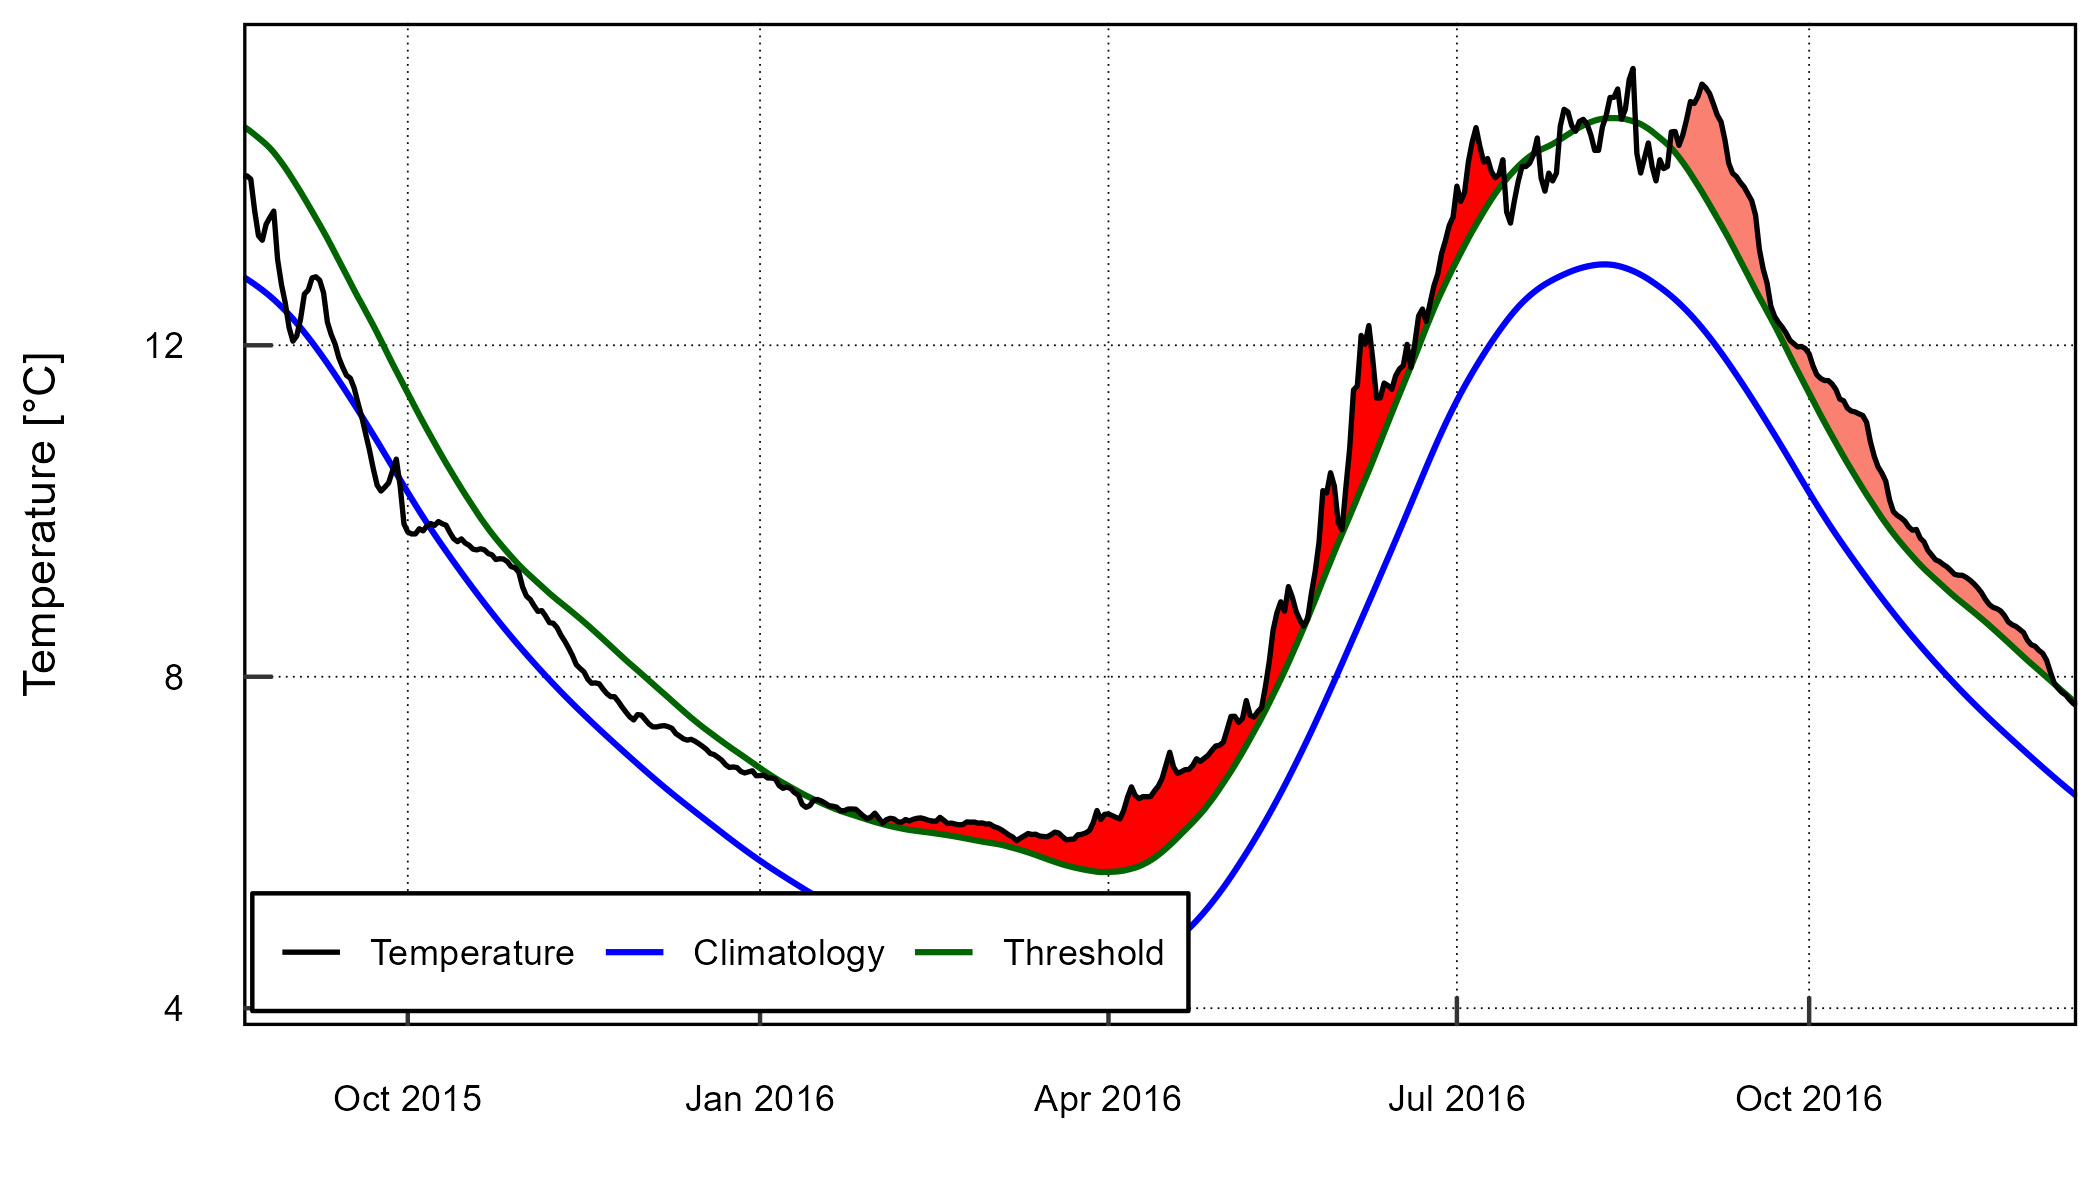
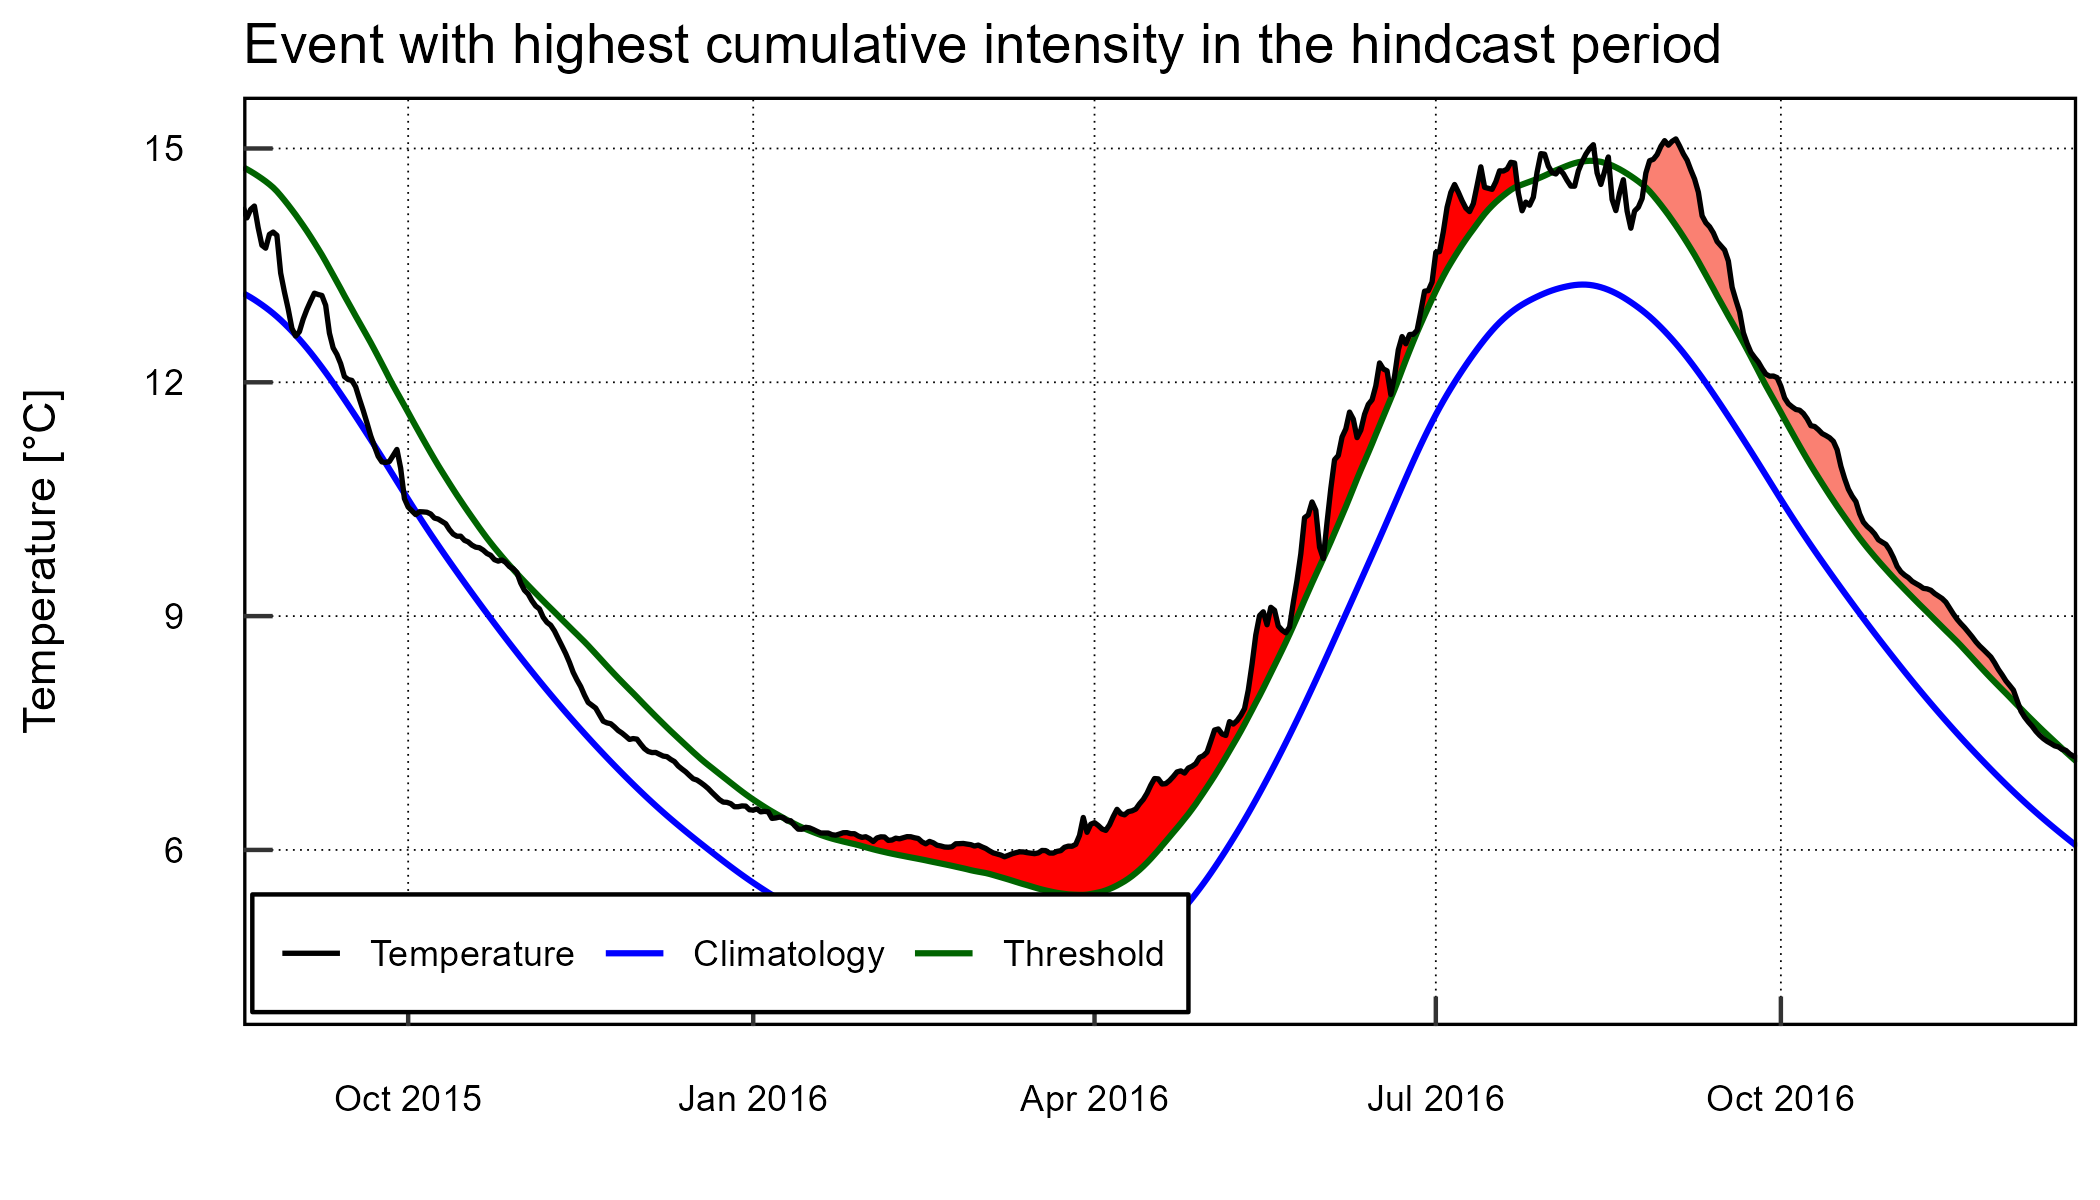
added all events image

diff --git a/readme.md b/readme.md
@@ -120,9 +120,11 @@ The code used here is adapted from work from Anna Sulc.
 
 XYZ add detail.
 
-![Event with highest cumulative intensity in the hindcast period](event1.png)
-![Event with highest maximum intensity in the hindcast period](event2.png)
+![All events in the hindcast period](p_ts.png)
 
+![Event with highest cumulative intensity in the hindcast period](event1.png)
+
+![Event with highest maximum intensity in the hindcast period](event2.png)
 
 ## Notes
 
